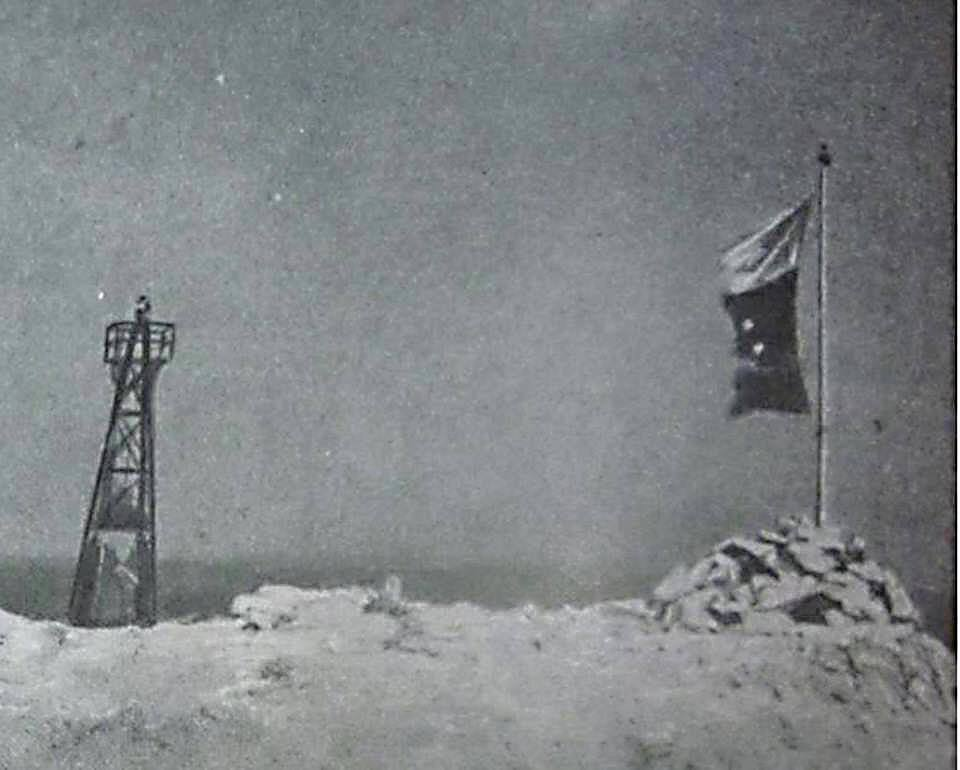
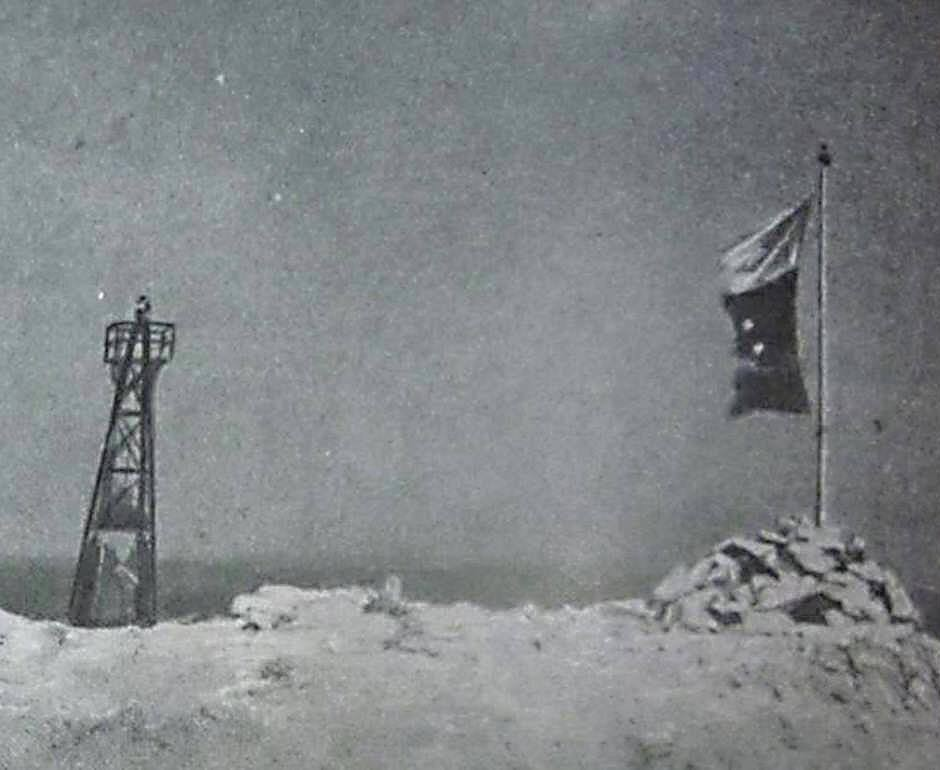
fix: renombrar el archivo de imagen "izada_bandera_los_monjes-1952.jpg"
Se renombro y actualizó la relación de aspecto del el archivo "izada_bandera_los_monjes-1952.jpg" por "1952-11-29-venezuela-ratifica-soberania-sobre-los-monjes.jpg", para mantener la uniformidad en los archivos de imagen.

diff --git a/_posts/1952-11-29-reconocimiento_soberania_venezuela.md b/_posts/1952-11-29-reconocimiento_soberania_venezuela.md
@@ -7,11 +7,11 @@ author: [Enrique Pomares]
 pais: [Venezuela]
 operator: [Fuerza Aérea Venezolana (FAV) / Armada Nacional]
 excerpt: "Venezuela ratifica su soberanía sobre el Archipiélago Los Monjes tras un intercambio diplomático con Colombia, apoyado por un despliegue de presencia aeronaval."
-image: "archipielago-los-monjes-venezuela.jpg"
+image: "1952-11-29-venezuela-ratifica-soberania-sobre-los-monjes.jpg"
 ---
 
 <figure>
-  <img class="post-image" src="{{ site.baseurl }}/assets/img/izada_bandera_los_monjes-1952.jpg" alt="Bandera de Venezuela izada en el Archipiélago LOs Monjes">
+  <img class="post-image" src="{{ site.baseurl }}/assets/img/1952-11-29-venezuela-ratifica-soberania-sobre-los-monjes.jpg" alt="Bandera de Venezuela izada en el Archipiélago LOs Monjes">
   <figcaption class="post-caption">El 29 de noviembre de 1952 es izada la Bandera de Venezuela en el Archipiélago Los Monjes, acto de reconocimiento de soberanía en 1952.</figcaption>
 </figure>
 <hr style="margin: 2rem 0; border: none; height: 2px; background: linear-gradient(to right, #1a237e, #283593);">
